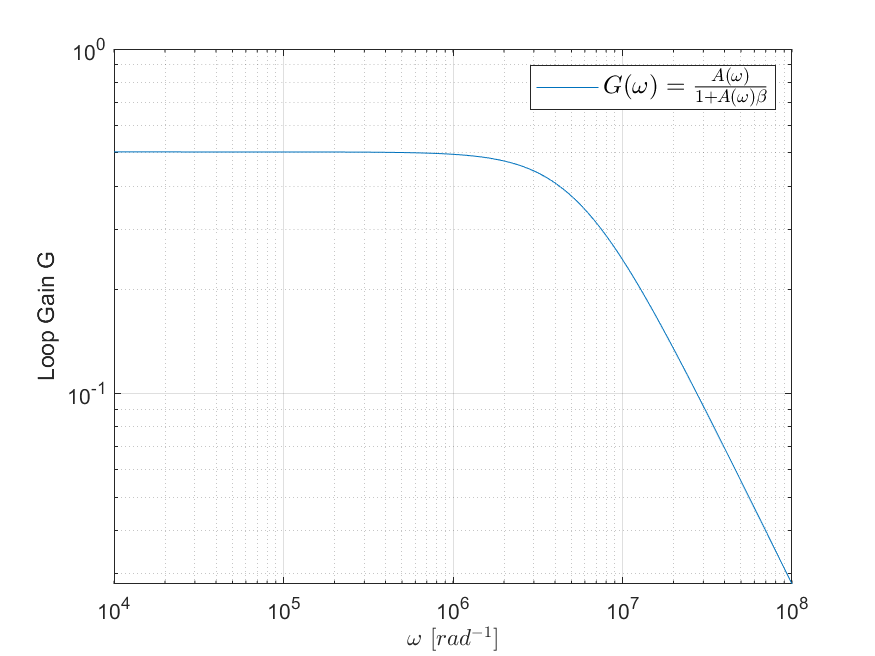
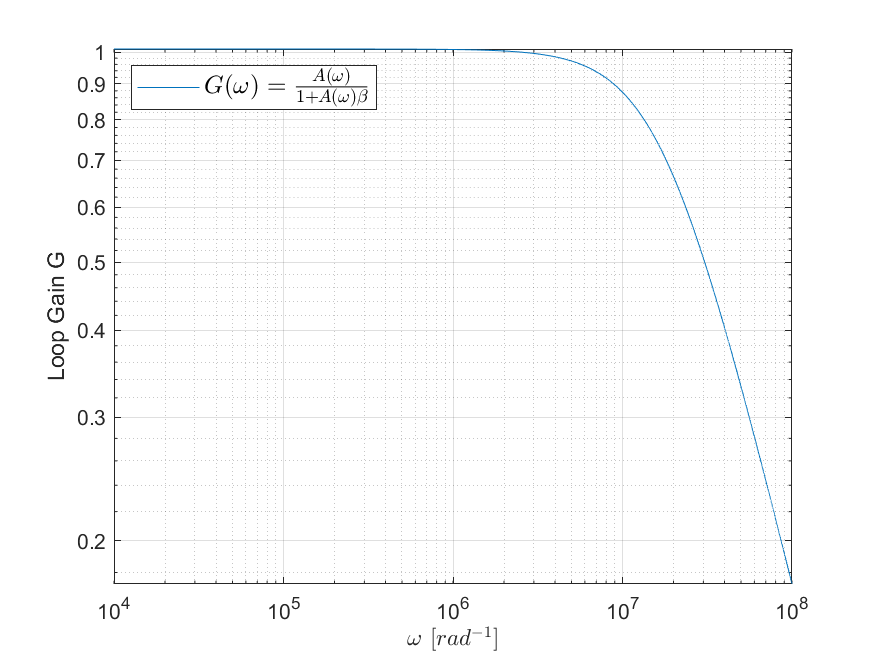
d

diff --git a/settimana_8/scripts/es3.m b/settimana_8/scripts/es3.m
@@ -10,7 +10,7 @@ plot(w, y)
 ylim([min(y), max(y)]);
 xlabel("$\omega$ [$rad^{-1}$]", 'Interpreter', 'Latex')
 ylabel("Loop Gain G")
-legend('$G(\omega) = \frac{A(\omega)}{1 + A(\omega) \beta}$', 'Interpreter', 'Latex', 'Fontsize', 12)
+legend('$G(\omega) = \frac{A(\omega)}{1 + A(\omega) \beta}$', 'Interpreter', 'Latex', 'Fontsize', 12, 'Location', 'northwest')
 set(gca, 'XScale', 'log')
 set(gca, 'YScale', 'log')
 grid()
